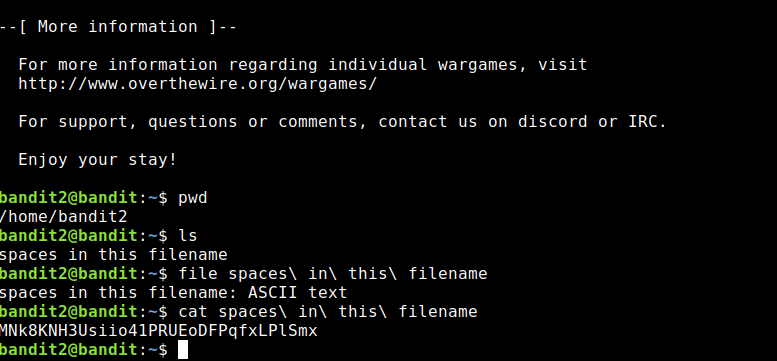
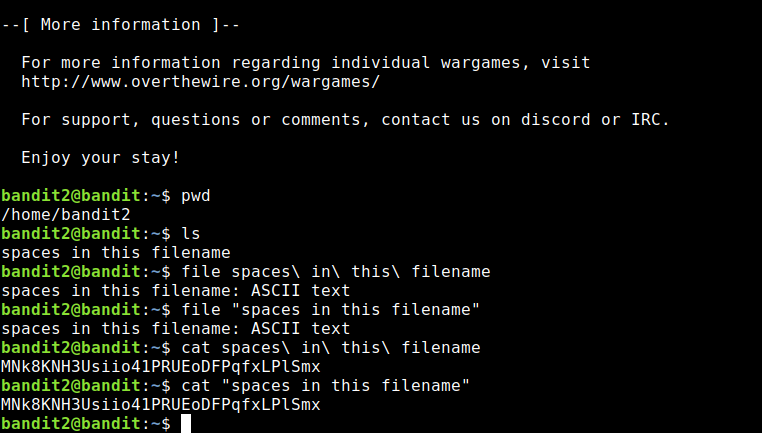
cambios.

Changed region(s): [[0.0, 0.4266, 0.664, 1.0], [0.0, 0.1219, 0.8753, 0.3961], [0.0, 0.0305, 0.3018, 0.0914]]

diff --git a/OverTheWire/Bandit/Level_3/nivel-3_bandit_overthewire_esp.md b/OverTheWire/Bandit/Level_3/nivel-3_bandit_overthewire_esp.md
@@ -1,1 +1,114 @@
-...
+
+# [Nivel 3](https://overthewire.org/wargames/bandit/bandit3.html) | [Bandit](https://github.com/frandausmeier/CTF_Write-Ups/tree/main/OverTheWire/Bandit) | [OverTheWire](https://overthewire.org/wargames/)
+
+> Español | [Inglés](https://github.com/frandausmeier/CTF_Write-Ups/blob/main/OverTheWire/Bandit/Level_3/level-3_bandit_overthewire_eng.md) 
+
+> [Version en PDF.](https://github.com/frandausmeier/CTF_Write-Ups/blob/main/OverTheWire/Bandit/Level_3/nivel-3_bandit_overthewire_esp.pdf)
+
+-----
+
+<br>
+
+## Descripción del _challenge_.
+> Bandido Nivel 2 → 3
+
+> Objetivo de nivel.
+- > La contraseña para el siguiente nivel se almacena en un archivo llamado **espacios en este nombre** de **archivo** ubicado en el directorio de la casa.
+
+> Comandos que puede necesitar para resolver este nivel.
+- > [ls](https://manpages.ubuntu.com/manpages/noble/man1/ls.1.html), [cd](https://manpages.ubuntu.com/manpages/noble/man1/cd.1posix.html), [cat](https://manpages.ubuntu.com/manpages/noble/man1/cat.1.html), [file](https://manpages.ubuntu.com/manpages/noble/man1/file.1.html), [du](https://manpages.ubuntu.com/manpages/noble/man1/du.1.html),[find](https://manpages.ubuntu.com/manpages/noble/man1/find.1.html)
+
+> Material de lectura útil.
+- > [Búsqueda de Google. Los espacios en el nombre de archivo.](https://www.google.com/search?q=spaces+in+filename)
+
+<br>
+
+## Información dada por el _challenge_.
+> Detalles útiles dados por el nivel anterior.
+- _hostname_: " bandit.labs.overthewire.org ".
+- _puerto_: " 22 " (2220).
+- _usuario_: " bandit2 ".
+- _contraseña_: " 263JGJPfgU6LtdEvgfWU1XP5yac29mFx ".
+
+<br>
+
+> Detalles nuevos dados por la descripción de este nivel.
+- _comandos potencialmente útiles_: " ls, cd, cat, file, du, find ".
+
+<br>
+
+---
+<br>
+
+
+## Procedimiento.
+
+<br>
+
+1. Una vez mas, luego de logearnos al nivel actual con las credenciales ganadas en el nivel anterior, usamos el comando **ls** para poder ver con que nos encontramos a nivel de archivos en el comienzo de este nivel.
+
+<br>
+
+```bash
+	bandit2@bandit:~$ ls
+```
+
+<br>
+
+- Este comando nos hace saber que tenemos un archivo en el directorio _home_ llamado " spaces in this filename ".
+
+<br>
+
+---
+
+<br>
+
+2. Dentro de los comandos que nos recomendaron los autores del _challenge_, además de los comandos **ls** y  **cat**, nos encontramos también con el comando **file**, el cual nos permite, entre otros usos, el poder corroborar el tipo de archivo con el que estamos tratando, independientemente de la extensión que pueda figurar en el nombre del archivo. Así es como lo podemos usar para saber con que tipo de archivo estamos tratando en este caso.
+
+<br>
+
+```bash
+	bandit2@bandit:~$ file spaces\ in\ this\ filename\
+```
+
+<br>
+
+```bash
+	bandit2@bandit:~$ file "spaces in this filename"
+```
+
+<br>
+
+* Cualquiera de estas 2 opciones funcionan para leer correctamente los espacios del nombre del archivo en el contexto del comando **file**.
+
+---
+
+<br>
+
+3. Ya habiendo usado el comando **file** y sabiendo que tratamos con un archivo de texto, sabemos que podemos usar nuevamente el comando **cat** para poder imprimir en terminal el contenido del archivo.
+
+<br>
+
+```bash
+	bandit2@bandit:~$ cat spaces\ in\ this\ filename\
+```
+
+<br>
+
+- Cualquiera de estas 2 opciones funcionan para leer correctamente los espacios del nombre del archivo en el contexto del comando **cat**. Y así es como obtenemos el contenido del archivo impreso en pantalla y la contraseña del siguiente nivel.
+
+<br>
+
+-----
+
+<br>
+
+## Adjunto.
+
+<br>
+
+![procedure image 1](https://github.com/frandausmeier/CTF_Write-Ups/blob/main/OverTheWire/Bandit/Level_3/attachments/procedure_bandit3.png?raw=true)
+
+<br>
+
+-----

diff --git a/OverTheWire/Bandit/Level_3/level-3_bandit_overthewire_eng.md b/OverTheWire/Bandit/Level_3/level-3_bandit_overthewire_eng.md
@@ -1,1 +1,122 @@
-...
+
+# [Level 3](https://overthewire.org/wargames/bandit/bandit3.html) | [Bandit](https://overthewire.org/wargames/bandit/) | [OverTheWire](https://overthewire.org/wargames/)
+
+> English | [Spanish](https://github.com/frandausmeier/CTF_Write-Ups/blob/main/OverTheWire/Bandit/Level_3/level-3_bandit_overthewire_esp.md)
+
+> [PDF version.](https://github.com/frandausmeier/CTF_Write-Ups/blob/main/OverTheWire/Bandit/Level_3/level-3_bandit_overthewire_eng.pdf)
+-----
+
+<br>
+
+## Challenge description.
+> Bandit Level 2 → Level 3
+
+> Level Goal.
+- > The password for the next level is stored in a file called  **spaces in this filename**  located in the home directory.
+
+> Commands you may need to solve this level.
+- > [ls](https://manpages.ubuntu.com/manpages/noble/man1/ls.1.html),  [cd](https://manpages.ubuntu.com/manpages/noble/man1/cd.1posix.html),  [cat](https://manpages.ubuntu.com/manpages/noble/man1/cat.1.html),  [file](https://manpages.ubuntu.com/manpages/noble/man1/file.1.html),  [du](https://manpages.ubuntu.com/manpages/noble/man1/du.1.html),  [find](https://manpages.ubuntu.com/manpages/noble/man1/find.1.html).
+
+> Helpful Reading Material.
+- >  [Google Search for “spaces in filename”](https://www.google.com/search?q=spaces+in+filename).
+
+<br>
+
+## Information given by the challenge.
+> Useful information given by the previous level.
+- _hostname_: " bandit.labs.overthewire.org ".
+- _port_: " 22 " (2220).
+- _user_: " bandit2 ".
+- _password_: " 263JGJPfgU6LtdEvgfWU1XP5yac29mFx ".
+
+<br>
+
+> New useful information given by this level.
+- _potentially useful commands_: " ls, cd, cat, file, du, find ".
+
+<br>
+
+-----
+
+<br>
+
+## Procedure.
+
+
+<br>
+
+1. Once again, after logging in to the current level with the credentials gained in the previous one, we use the **ls** command to see what we find at the file level at the beginning of this level.
+
+<br>
+
+```bash
+	bandit2@bandit:~$ ls
+```
+
+<br>
+
+- This command lets us know that we have a file in the home directory called " spaces in this filename ".
+
+<br>
+
+---
+
+<br>
+
+2. Among the commands recommended by the authors of the challenge, in addition to the **ls** and **cat** commands, we also find the **file** command, which allows us, among other uses, to corroborate the type of file we are dealing with, regardless of the extension that may appear in the file name. This is how we can use it to find out what type of file we are dealing with in this case.
+
+<br>
+
+```bash
+	bandit2@bandit:~$ file spaces\ in\ this\ filename\
+```
+<br>
+
+```bash
+	bandit2@bandit:~$ file "spaces in this filename"
+```
+
+<br>
+
+* Either one of these 2 options works fine to guarantee that the **file** command reads correctly the spaces in the name of the file.
+
+<br> 
+
+---
+
+<br>
+
+3. Having already used the **file** command and knowing that we are dealing with a text file, we know that we can use the **cat** command again to be able to print the contents of the file in the terminal.
+
+<br>
+
+```bash
+	bandit2@bandit:~$ cat spaces\ in\ this\ filename\
+```
+
+<br>
+
+```bash
+	bandit2@bandit:~$ cat "spaces in this filename"
+```
+
+<br>
+
+- Either one of these 2 options works fine to guarantee that the **cat** command reads correctly the spaces in the name of the file. And this is how we get the contents of the file printed on the screen and the password for the next level.
+
+<br>
+
+-----
+
+<br>
+
+## Attachment.
+
+<br>
+
+![procedure image 1](https://github.com/frandausmeier/CTF_Write-Ups/blob/main/OverTheWire/Bandit/Level_3/attachments/procedure_bandit3.png?raw=true)
+
+<br>
+
+----
+
